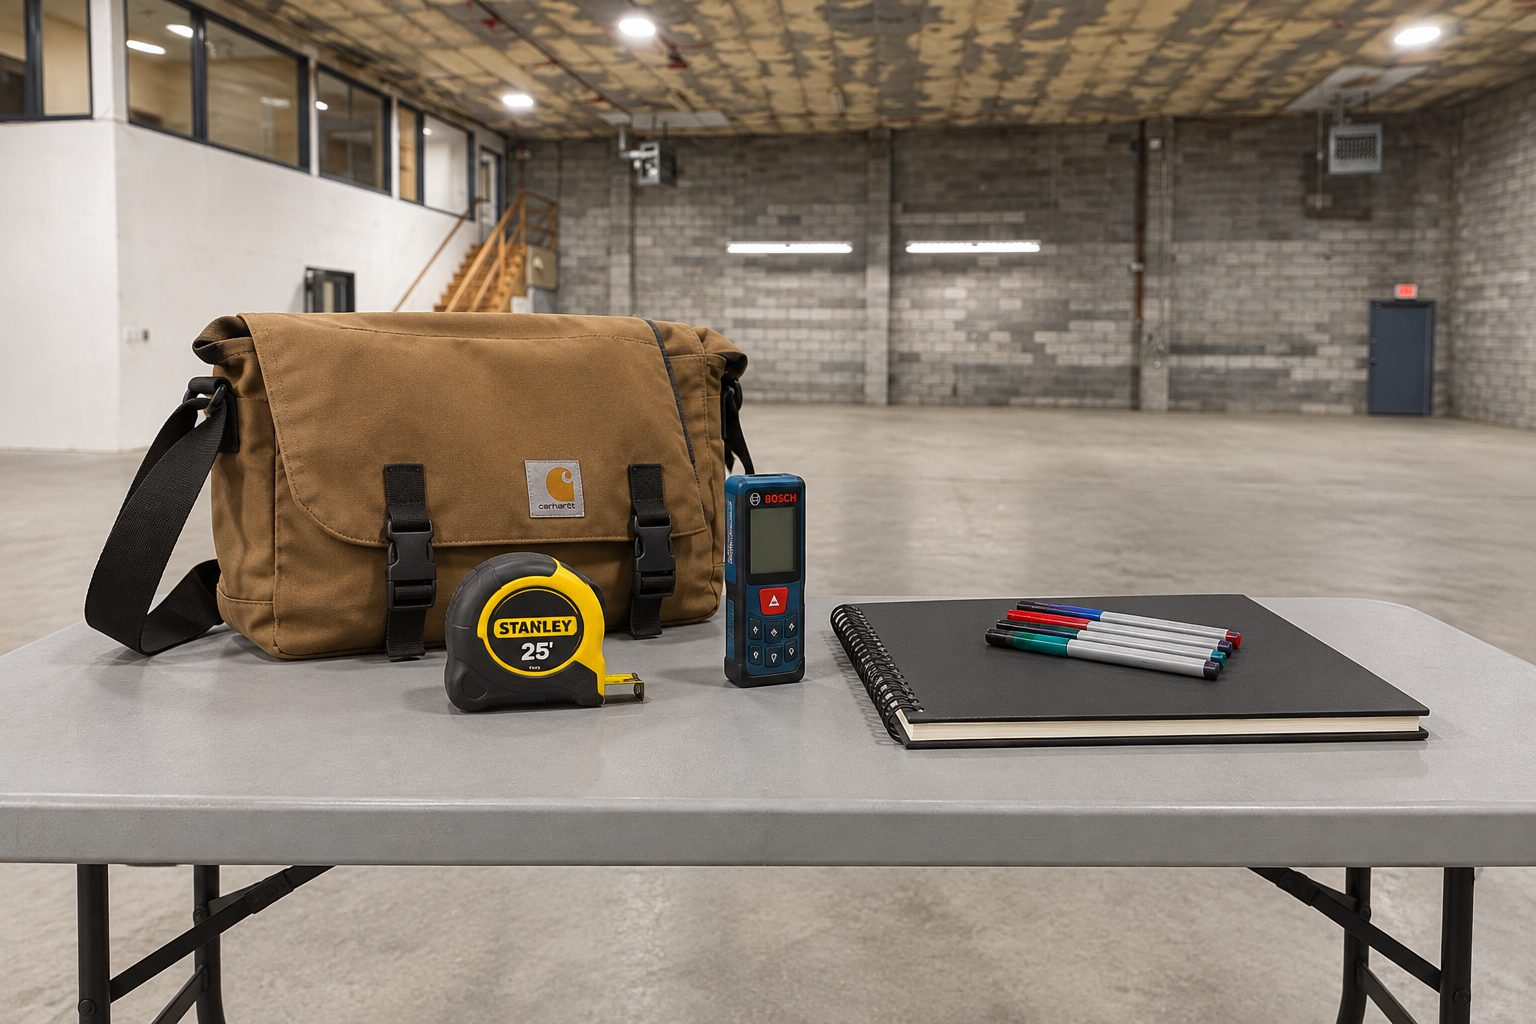
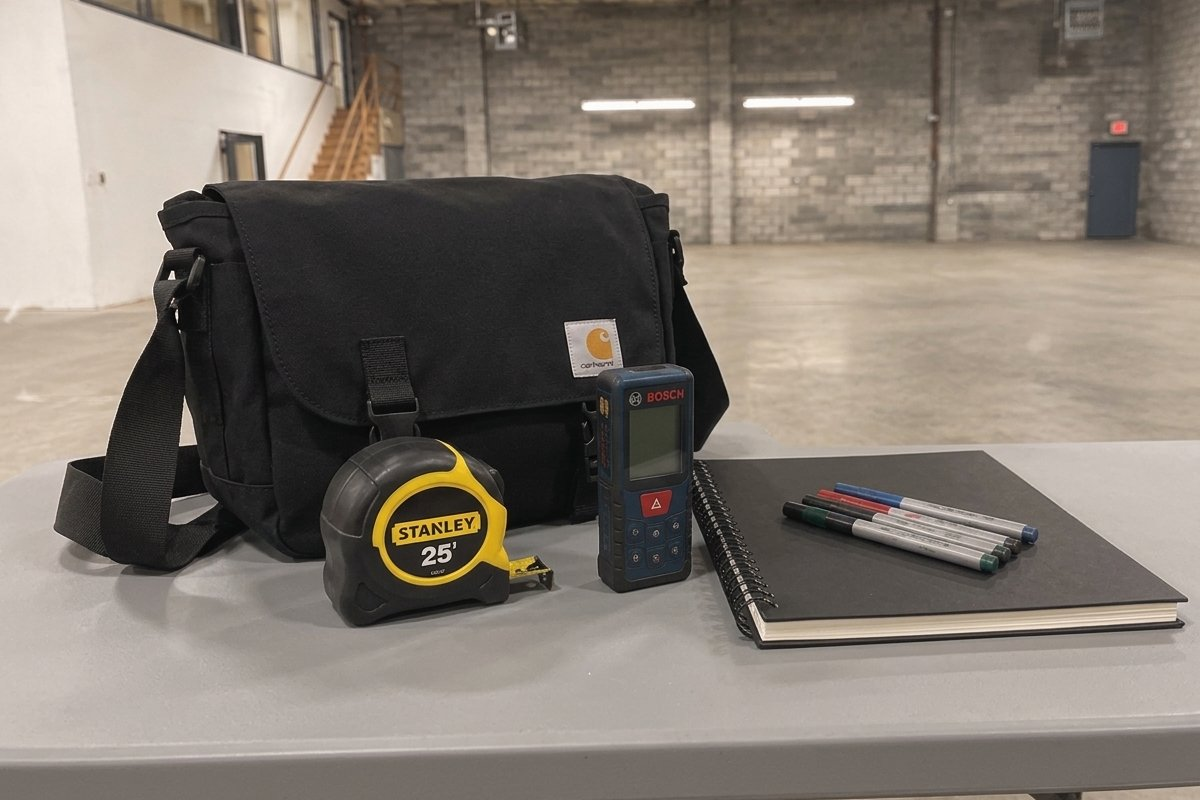
Swap in the closer, cleaner placeholder image
Claude-Session: https://claude.ai/code/session_01JKbWaFh486ckySrWTcWXo7

diff --git a/index.html b/index.html
@@ -230,7 +230,7 @@
     <!-- PLACEHOLDER IMAGE (generated, added 2026-11-09). Replace photo.jpg with the real
          job-site photograph before or soon after going live; keep it 3:2. -->
     <figure class="photo">
-      <img src="photo.jpg" width="1536" height="1024" alt="A tape measure, laser measure, sketchbook, pens and a canvas bag on a table in an empty warehouse">
+      <img src="photo.jpg" width="1200" height="800" alt="A tape measure, laser measure, sketchbook, pens and a canvas bag on a table in an empty warehouse">
     </figure>
   </div>
 </div>
